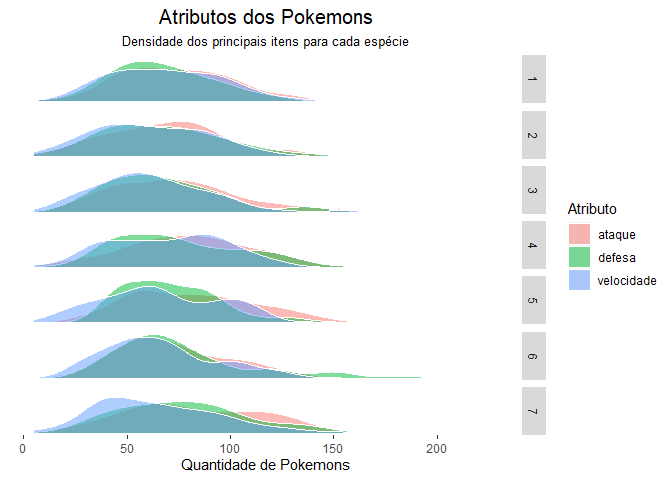
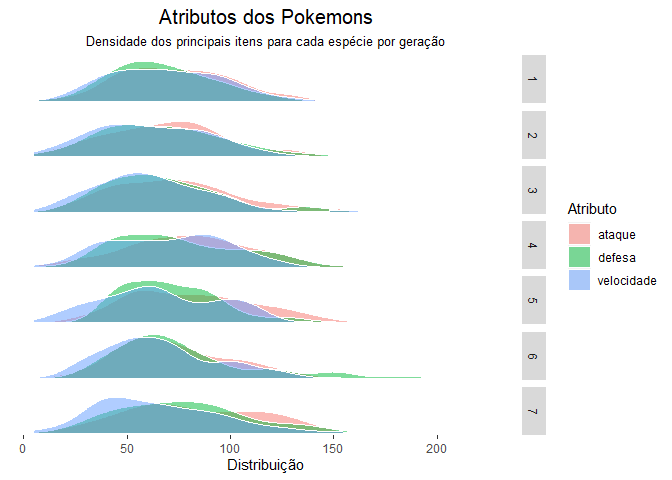
Update Readme

Changed region(s): [[0.125, 0.0625, 0.6562, 0.125], [0.2812, 0.9375, 0.5312, 1.0]]

diff --git a/README.md b/README.md
@@ -4,7 +4,9 @@ Trabalho final: Análise dos Pokemons
 **1. Dicionário de dados**
 
 Para entender os dados mais específicos, é importante verificar a
-situação da base. Dessa forma,
+situação da base. Dessa forma, cabe pontuar alguns detalhes da base.
+
+<ul>
 
 <li>
 
@@ -29,6 +31,13 @@ hp = saúde/vida do pokemon
 tipo = categoria do pokemon
 
 </li>
+
+</ul>
+
+Outras variáveis estão diretamente relacionadas aos atributos dos
+pokemons. Tanto para a força de atributos (como ataque, defesa, poderes
+especiais), quanto das características dos respectivos pokemons (cor,
+altura, peso e etc.).
 
     ## Rows: 949
     ## Columns: 20
@@ -125,17 +134,23 @@ Tabela 1. Distribuição dos pokemons por tipo ao longo das gerações
 
 Observar a densidade dos atributos de força dos pokemons ajuda a
 entender se há alguma variação para esses itens ao longo das gerações.
-Aqui, duas percepções são importantes. Primeiramente, não há valorização
-para determinado atributo, em nenhuma geração, isso é importante para
-entender que os Pokemons seguem em mesmo nível; o segundo ponto é que,
-
-Essa separação serve para demonstrar como há uma certa concentração para
-algumas categorias. A distribuição por gerações permite entender se
-houve alguma variação ao longo da história Pokemon. Entretanto, é
-possível perceber que, dentre as **18 categorias**, há uma prevalência
-de características específicas. No caso, destaco: **água**, **grama** e
-**inseto**. Além dessas, também há uma forte presença de pokemons do
-tipo **normal**, que trata de uma forma mais genérica de pokemons
-(envolvendo roedores, aves e etc.)
+Aqui, há uma percepção importante. A valorização para determinado
+atributo é pequena ao longo das gerações, isso é importante para
+entender que os Pokemons seguem em mesmo nível ao longo das temporadas.
+Dessa maneira, não será necessário realizar nenhum recorte para comparar
+toda a base de pokemons.
 
 <img src="README_files/figure-gfm/unnamed-chunk-5-1.png" style="display: block; margin: auto;" />
+
+**6. Alcance dos tipos de Pokemon para cada atributo**
+
+Dessa maneira, para tentar compreender quais são os tipos mais potentes
+para cada atributo, é possível observar a distribuição dos respectivos
+pokemons em relação ao seu desempenho em ataque, defesa e velocidade.
+Para seguir analisando tais características, utilizarei os tipos com
+maior média em cada atributo entre todos observados. Sendo assim: o tipo
+**lutador** para encontrar pokemons de **ataque**; para o atributo de
+**defesa**, pokemons do tipo **aço**; e, por fim, o **voador** para
+**velocidade**.
+
+<img src="README_files/figure-gfm/unnamed-chunk-6-1.png" style="display: block; margin: auto;" />
